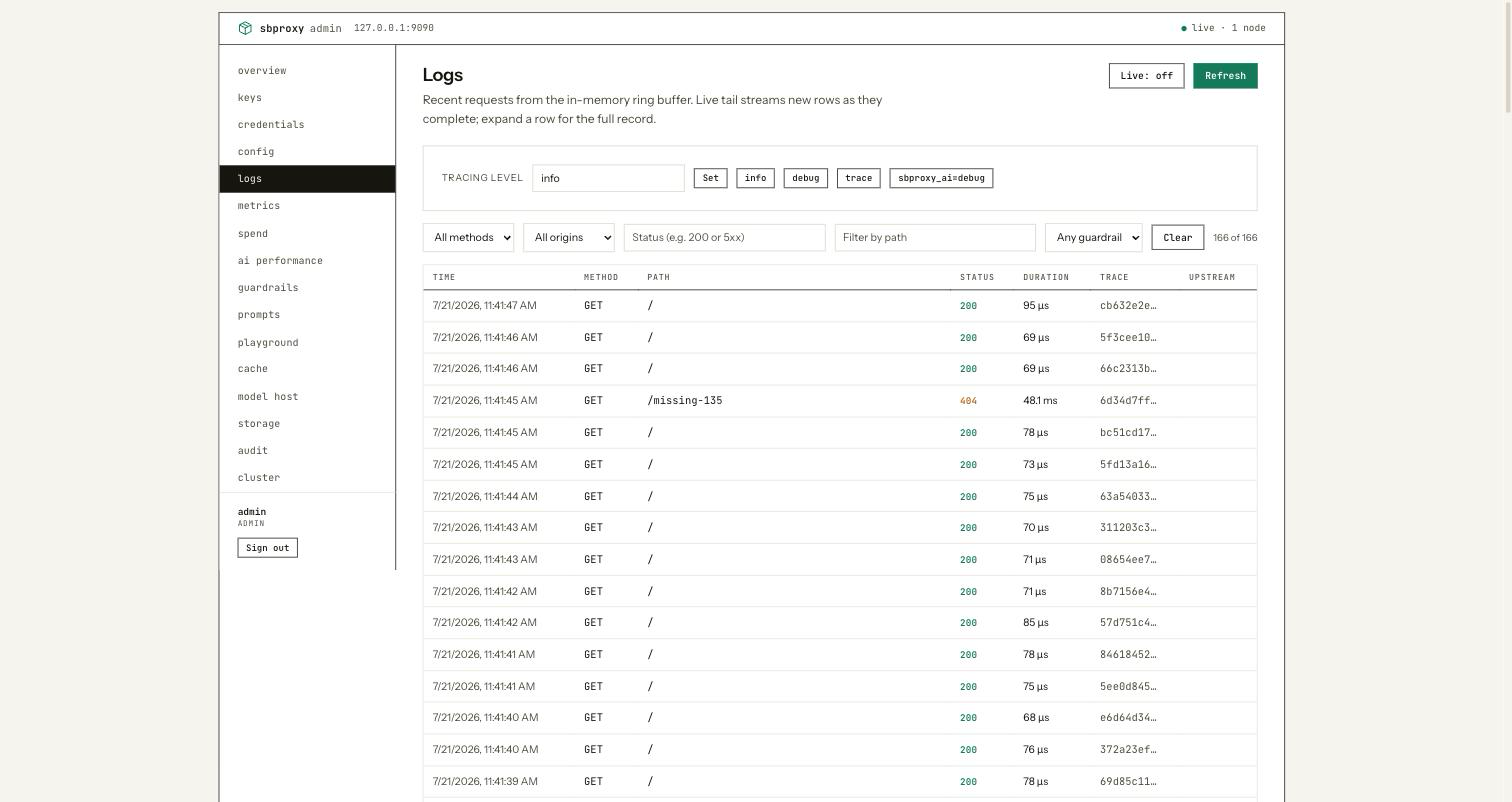
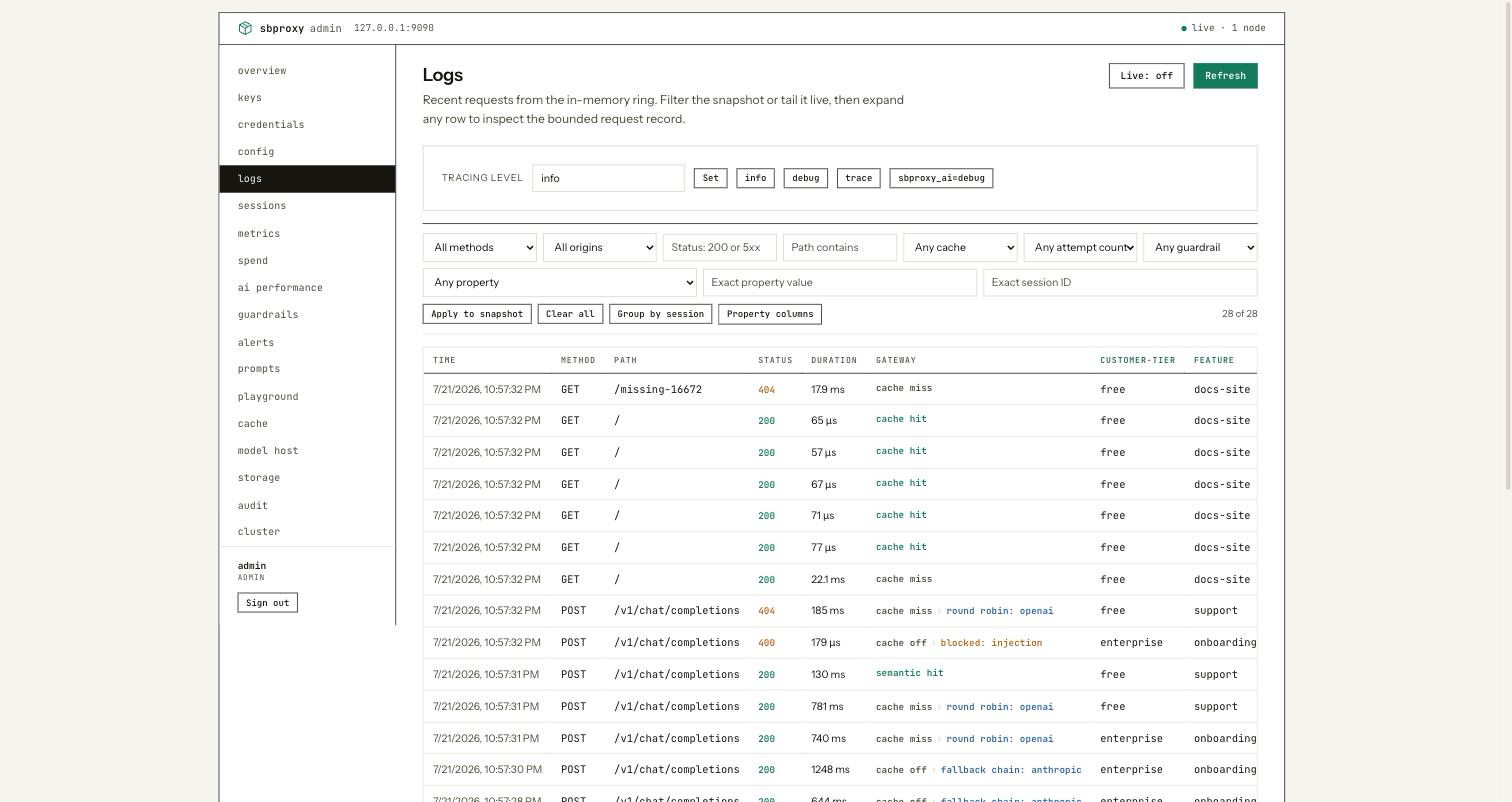
docs(admin): document the observability surfaces and release 1.7.0 (#756)
Exercising every surface #755 added against a live gateway turned up
two defects and a documentation gap. All three are fixed here, and the
result is documented with screenshots taken from that same run.

Spend could not group by a promoted property. The console offers
`Property: feature` and sends `group_by=property%3Afeature`, because
`encodeURIComponent` escapes the colon; the route read that value with
the non-decoding query reader and answered `400 unknown group_by` to
its own dropdown. The page then labelled the property "unavailable in
window", because the failed response carried no `property_keys`.
`property:<key>` is the first group-by value with punctuation, so the
gap only surfaced once promoted properties shipped. The route now
decodes, both spellings resolve to one dimension, and a regression
test pins it.

An alerting test measured machine load rather than delivery. It polled
with a `yield_now` loop inside a one-second wall clock and failed in a
full workspace run. A log-channel delivery is synchronous once the
loop receives the command, so the budget was only ever measuring how
quickly a saturated machine scheduled the spawned task; sleeping
between polls still burned ten seconds under load. The test now runs
under paused time, where the clock auto-advances whenever every task
is idle, so it resolves when the delivery lands regardless of load.

Alert webhook channels are SSRF-guarded, so a channel aimed at a
[…]

diff --git a/crates/sbproxy-core/src/admin.rs b/crates/sbproxy-core/src/admin.rs
@@ -2050,11 +2050,16 @@ pub fn handle_admin_request(
     // legacy shape (process-lifetime counter totals) is unchanged.
     if path_only == "/api/usage/spend" {
         let window = rl_query_param(path, "window");
-        let group_by = rl_query_param(path, "group_by");
+        // `group_by` is the one spend parameter whose values carry
+        // punctuation: a promoted property reads `property:<key>`, and
+        // every standards-compliant client percent-encodes the colon.
+        // Decode before parsing so `property%3Afeature` and
+        // `property:feature` select the same dimension.
+        let group_by = decoded_query_param(path, "group_by");
         let from_p = rl_query_param(path, "from").and_then(|s| s.parse::<u64>().ok());
         let to_p = rl_query_param(path, "to").and_then(|s| s.parse::<u64>().ok());
         if window.is_some() || group_by.is_some() || from_p.is_some() || to_p.is_some() {
-            return windowed_spend_response(window, group_by, from_p, to_p);
+            return windowed_spend_response(window, group_by.as_deref(), from_p, to_p);
         }
         let snap = sbproxy_observe::metrics::metrics().snapshot_named(&[
             "sbproxy_tokens_attributed_total",
@@ -3972,6 +3977,27 @@ mod tests {
         assert_eq!(status, 200, "encoded path filter must succeed: {body}");
         let rows: serde_json::Value = serde_json::from_str(&body).unwrap();
         assert_eq!(rows.as_array().map(Vec::len), Some(1));
+    }
+
+    #[test]
+    fn spend_group_by_accepts_a_percent_encoded_property_dimension() {
+        // A promoted property reads `property:<key>`, and every
+        // standards-compliant client percent-encodes the colon. Reading
+        // the raw query value made `property%3Afeature` a 400 while the
+        // admin UI's own dropdown emitted exactly that form.
+        let encoded = decoded_query_param(
+            "/api/usage/spend?window=24h&group_by=property%3Afeature",
+            "group_by",
+        );
+        assert_eq!(encoded.as_deref(), Some("property:feature"));
+        assert!(
+            sbproxy_observe::usage_rollup::GroupBy::parse(encoded.as_deref().unwrap()).is_some(),
+            "the decoded dimension must parse"
+        );
+
+        // The raw form keeps working for hand-written curl calls.
+        let raw = decoded_query_param("/api/usage/spend?group_by=property:feature", "group_by");
+        assert_eq!(raw.as_deref(), Some("property:feature"));
     }
 
     #[test]

diff --git a/crates/sbproxy-core/src/alerting.rs b/crates/sbproxy-core/src/alerting.rs
@@ -233,7 +233,14 @@ mod tests {
     use sbproxy_observe::alerting::runtime::{AlertHistoryEvent, DeliveryStatus};
     use sbproxy_observe::alerting::AlertChannelConfig;
 
-    #[tokio::test]
+    // Paused time removes the wall clock from this test. A log-channel
+    // delivery is synchronous once the loop receives the command, so the
+    // only thing a real-time budget measured was how quickly a saturated
+    // machine scheduled the spawned task; the full workspace run starved
+    // it past ten seconds. With time paused the runtime auto-advances
+    // whenever every task is idle, so the poll below resolves as soon as
+    // the delivery lands, deterministically and under any load.
+    #[tokio::test(start_paused = true)]
     async fn channel_test_command_queues_and_runs_on_the_alert_runtime() {
         let channels = vec![AlertChannelConfig {
             channel_type: "log".to_string(),
@@ -248,7 +255,11 @@ mod tests {
         let loop_task = tokio::spawn(run(phase_rx, 3_600, channels, runtime.clone(), command_rx));
 
         control.queue_channel_test(0).unwrap();
-        tokio::time::timeout(Duration::from_secs(1), async {
+        // Sleep between polls rather than spinning on `yield_now`: under
+        // paused time a sleep is what lets the clock auto-advance, and the
+        // budget is virtual, so it bounds a genuinely broken delivery
+        // without ever measuring machine load.
+        tokio::time::timeout(Duration::from_secs(10), async {
             loop {
                 let snapshot = runtime.snapshot();
                 if snapshot.history.len() == 1
@@ -256,7 +267,7 @@ mod tests {
                 {
                     break;
                 }
-                tokio::task::yield_now().await;
+                tokio::time::sleep(Duration::from_millis(5)).await;
             }
         })
         .await

diff --git a/CHANGELOG.md b/CHANGELOG.md
@@ -10,6 +10,87 @@ repository.
 Work that has merged to `main` since the latest tag and is queued for
 the next version cut.
 
+## [1.7.0] - 2026-07-22
+
+The admin release. The console is rebuilt around the editorial brand
+system, gains live sampled charts, and, most importantly, stops hiding
+data the proxy was already collecting: request sessions, custom
+properties, and the gateway's own decisions now reach the operator,
+and the alerting engine finally has a face. Per-origin scoping runs
+across the estate so a multi-tenant gateway reports per tenant.
+
+### Added
+
+- **Sessions.** Requests carrying `X-Sb-Session-Id` (and optionally
+  `X-Sb-Parent-Session-Id`) are reconstructed into logical
+  interactions. A session index ranks recent work by requests, tokens,
+  cost, wall-clock duration, and worst status, indenting child
+  sessions under their parent; a detail page reads one session's call
+  chain oldest first with each call's gateway decisions, identifiers,
+  AI route, tokens, cost, and properties. This is a view over the
+  in-memory request ring, not durable trace storage.
+- **Custom properties as first-class dimensions.** Bounded
+  `X-Sb-Property-*` headers are captured, redacted per configuration,
+  and carried on the request log, where they become filter and column
+  choices. Properties named in an origin's `properties.rollup_keys`
+  are promoted to durable spend dimensions, so the Spend page can
+  group a window by a business dimension the caller supplied.
+- **Gateway decisions on every request row.** The log now records what
+  the gateway actually did: cache result, retry count, whether
+  failover engaged and between which providers, the load-balancer
+  strategy and target, and the guardrail outcome. The console reads
+  them as one causal rail per row, answering whether the resilience
+  configuration fired without opening a body.
+- **Alerts page.** The alerting runtime is visible for the first time:
+  rule thresholds, current reading, sample floor, and evaluation
+  state; sanitized channel targets with delivery health and bounded
+  errors; and recent fired, resolved, and test events. A targeted
+  channel test exercises delivery without changing configuration.
+  `sb.yml` remains authoritative and the page is read-only.
+- **Live metrics.** The Metrics page samples the Prometheus endpoint
+  and charts what happened between samples: request rate, error rate,
+  latency percentiles from histogram bucket deltas, and AI token
+  throughput, with numeric tiles and trend sparklines.
+- **Per-origin scoping.** The attributed AI counters and the durable
+  usage rollups carry the origin the request arrived on, and Metrics,
+  Spend, Cache, and Logs can scope to one origin. Panels whose series
+  have no origin dimension say so rather than showing unscoped numbers
+  under a filter.
+- **Context-compression reporting.** The compression policies report
+  compressed requests, tokens and cost saved, per-lever savings,
+  outcomes, and average ratio per lever.
+
+### Changed
+
+- **The admin console follows the sbproxy.dev editorial system.**
+  Paper and ink surfaces, a persistent top bar carrying the admin
+  host, a live health dot, and the cluster node count, mono
+  microcopy, and square corners. Every mutation confirms or fails
+  through a toast; validation detail and revision conflicts stay
+  inline next to the form that caused them.
+- **The admin rate-limit default is 240 requests per minute per
+  client IP**, up from 60, with the global cap still ten times that.
+  A busy console no longer trips its own limiter.
+
+### Fixed
+
+- **Cache hit and miss counts are no longer always zero.** The Cache
+  page read a metric name the server never emitted.
+- **The playground reaches locally served models.** A chat against a
+  served or managed deployment returned 404 because the request
+  skipped the runtime's endpoint resolution and fell back to a
+  localhost URL pointing at the proxy itself.
+- **Spend groups by a promoted property.** The group-by parameter was
+  read without percent-decoding, so the console's own
+  `property:<key>` selection failed as an unknown dimension.
+- **Spend history reports a disabled rollup store as a hint**, not as
+  a failed view.
+- **The overview lists managed models by name** with their reserved
+  memory, instead of "unknown".
+- **An engine that dies after reaching readiness reports why.** The
+  health path now carries the bounded, redacted stderr tail into the
+  retained error rather than logging only that the process exited.
+
 ## [1.6.2] - 2026-07-21
 
 ### Added

diff --git a/docs/admin-ui.md b/docs/admin-ui.md
@@ -1,6 +1,6 @@
 # Admin UI
 
-*Last modified: 2026-07-21*
+*Last modified: 2026-07-22*
 
 The built-in admin UI is a Vue 3 + Vite single-page app that drives the
 same [admin API](admin-api-reference.md) any curl script can call. It
@@ -156,7 +156,7 @@ per-target health, and a raw config editor.
 
 ## Logs (`/logs`)
 
-![The Logs page: recent requests with method, path, status, and duration, plus a tracing-level control](assets/admin-logs.png)
+![The Logs page: requests with a Gateway decision column reading cache, routing, and guardrail outcomes, two custom-property columns, and the filter bar](assets/admin-logs.png)
 
 The queryable view over the recent-request ring buffer, with a live
 tail and a runtime log-level control.
@@ -210,6 +210,8 @@ restart at any step:
 
 ## Sessions (`/sessions`, `/sessions/:sessionId`)
 
+![The session index: rollup tiles over the ring, then one row per session with child sessions indented under their parent](assets/admin-sessions.png)
+
 Recent logical interactions reconstructed entirely from the request ring.
 
 - **Shows:** `GET /api/requests`, grouped by `session_id` and linked by
@@ -219,9 +221,34 @@ Recent logical interactions reconstructed entirely from the request ring.
   request and trace IDs, and links to a parent or child that remains in the
   ring.
 - **Mutations:** none. "Open in Logs" applies the exact session filter there.
+![A session detail page: child links, rollup tiles, and a numbered call chain where each call shows its gateway decision rail, IDs, AI route, tokens, and property chips](assets/admin-session-detail.png)
+
 - **Retention boundary:** this is not durable trace storage, a span waterfall,
   or replay. A restart or request-ring eviction can remove some or all of a
   session, and the UI labels parents that fall outside the current ring.
+
+### Attributing a spike to a customer
+
+The observability surfaces compose into one attribution loop. Send
+`X-Sb-Session-Id` (and `X-Sb-Parent-Session-Id` for a sub-agent) plus any
+`X-Sb-Property-*` headers your callers can supply, then:
+
+1. **Spend** shows the money. Group the window by a promoted property
+   (`Property: feature`) to see which product surface moved, or by origin
+   for which tenant.
+2. **Logs** shows the requests behind it. Filter by that exact property key
+   and value, and read the Gateway column: a run of `cache miss` where you
+   expected hits, or `fallback chain` engaging, explains a cost or latency
+   change without opening a single body.
+3. **Sessions** shows the shape of the work. One agent task is usually many
+   calls; the index ranks sessions by cost and duration, and a detail page
+   reads the call chain oldest first with each call's gateway decisions.
+4. **Alerts** shows whether anyone was told. Rule state and channel delivery
+   health answer "should this have paged us, and did it?"
+
+Only properties listed in the origin's `properties.rollup_keys` become
+durable spend dimensions; every captured property stays filterable in Logs
+for the life of the ring. Redacted keys show as `[redacted]` everywhere.
 
 ## Metrics (`/metrics`)
 
@@ -267,7 +294,7 @@ and remains the source of truth.
 
 ## Spend (`/spend`)
 
-![Spend: windowed history with group-by, live totals, and per-model breakdowns](assets/admin-spend.png)
+![Spend: the window grouped by a promoted custom property, with per-model, per-provider, and per-origin breakdowns below](assets/admin-spend.png)
 
 Estimated AI cost: live totals since process start, plus durable
 windowed history.
@@ -331,6 +358,8 @@ blocked, and what wasted spend the gateway flagged.
 
 ## Alerts (`/alerts`)
 
+![The Alerts page: rule evaluation state, one healthy and one failing channel with its delivery error, and the test-event history](assets/admin-alerts.png)
+
 Read-only alert operations over the runtime installed from `sb.yml`.
 
 - **Shows:** `GET /api/alerts`: built-in rules with thresholds, current
@@ -346,7 +375,10 @@ Read-only alert operations over the runtime installed from `sb.yml`.
   remains inactive below 10 attempts in an evaluation window.
 - **Empty/error notes:** no `proxy.alerting` block renders a disabled state;
   an enabled runtime with no channels keeps tests unavailable; no history is a
-  normal process-lifetime empty state.
+  normal process-lifetime empty state. A webhook channel pointed at a private
+  or loopback address reports `failing` with "target rejected by SSRF policy":
+  the delivery path enforces the same egress guard as the rest of the proxy, so
+  test a local receiver through a routable address.
 
 ## Prompts (`/prompts`)
 

diff --git a/docs/configuration.md b/docs/configuration.md
@@ -567,6 +567,12 @@ proxy:
 | `channels[].headers` | map | `{}` | Extra HTTP headers added to webhook deliveries. |
 | `channels[].routing_key` | secret reference | | Required for `pagerduty`; sent to Events API v2 and never exposed by the admin API. |
 
+Webhook and Slack deliveries pass through the same SSRF guard as the rest of
+the proxy's outbound calls, so a channel pointed at a private or loopback
+address is rejected at delivery time and the admin Alerts page reports the
+channel as `failing` with "target rejected by SSRF policy". Point a local
+receiver at a routable address when testing.
+
 An alert channel accepts exactly `type`, `url`, `headers`, and `routing_key`.
 A `secret:` key on a channel is rejected at config load as an unknown key;
 alert-webhook payload signing is not configurable yet. To sign webhook

diff --git a/README.md b/README.md
@@ -4,7 +4,7 @@
 
 <h1 align="center">SBproxy</h1>
 
-*Last modified: 2026-07-20*
+*Last modified: 2026-07-22*
 
 <h3 align="center">The self-hosted AI gateway.</h3>
 